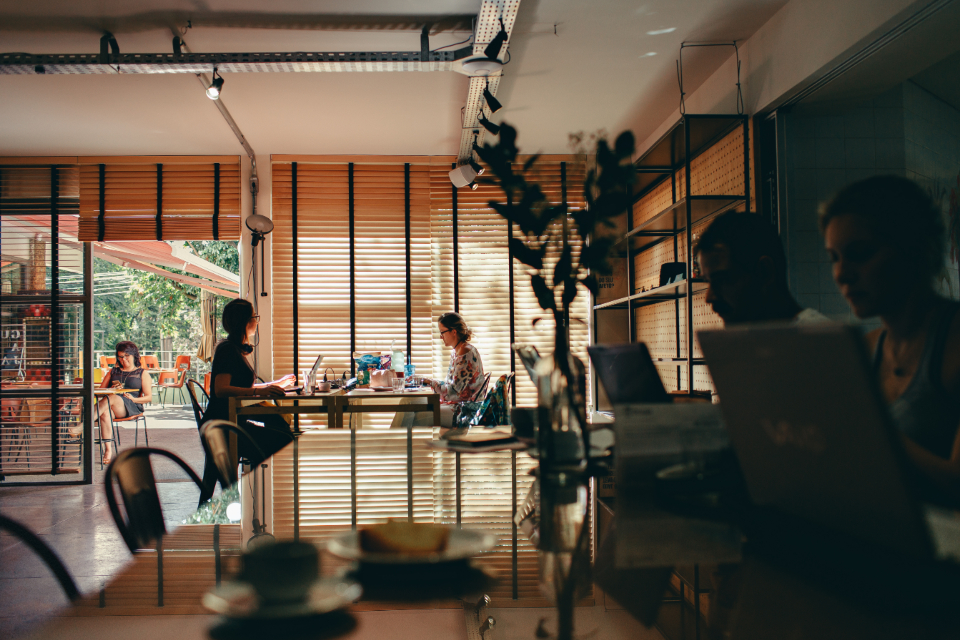
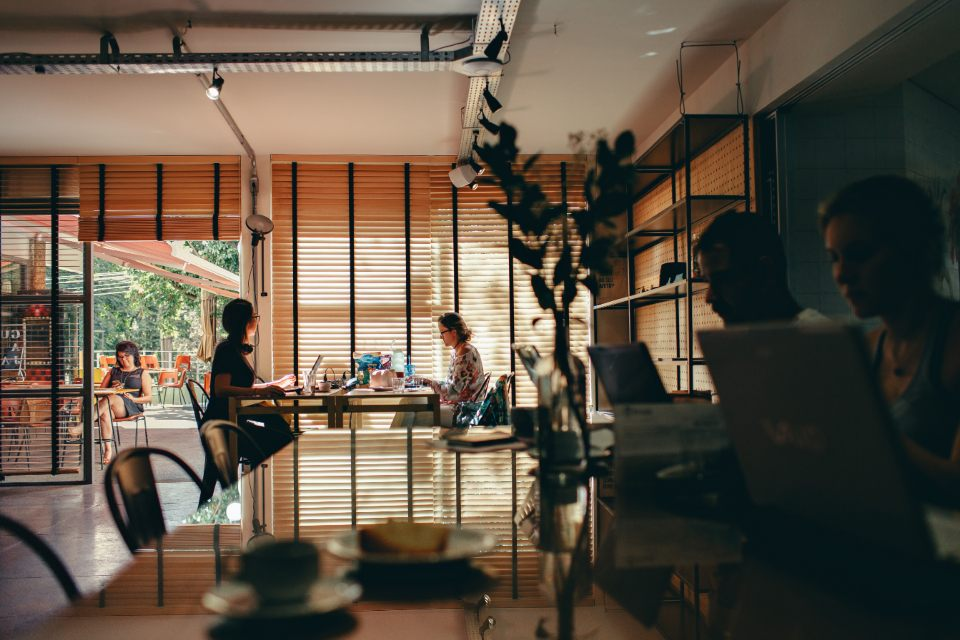
Mejoras de SEO que no dependen del dominio
Primera tanda de optimización tras publicar en Hostinger. Google usa la
velocidad de carga como factor de posicionamiento, y el hero es el
elemento que marca esa medida.

- Fotos recomprimidas: de 1,7 MB a 0,46 MB en total. El hero pasa de
  675 KB a 105 KB sin pérdida visible bajo el velo oscuro.
- Retiradas GSAP y ScrollTrigger (113 KB de JavaScript). Solo animaban
  los cuatro contadores, que ahora usan requestAnimationFrame.
- Meta descripciones de ES, EN y FR acortadas a 155 caracteres o menos,
  para que Google no las corte en los resultados.
- Versión de main.js a 20260913.

diff --git a/main.js b/main.js
@@ -174,15 +174,15 @@
       var target = parseFloat(el.dataset.countTo);
       var decimals = (el.dataset.countTo.split(".")[1] || "").length;
       var trigger = function () {
-        if (window.gsap) {
-          var obj = { v: 0 };
-          gsap.to(obj, {
-            v: target, duration: 1.5, ease: "power2.out",
-            onUpdate: function () { el.textContent = obj.v.toFixed(decimals); }
-          });
-        } else {
-          el.textContent = target.toFixed(decimals);
+        var start = null, duration = 1500;
+        function frame(now) {
+          if (start === null) start = now;
+          var p = Math.min(1, (now - start) / duration);
+          var eased = 1 - (1 - p) * (1 - p);
+          el.textContent = (target * eased).toFixed(decimals);
+          if (p < 1) requestAnimationFrame(frame);
         }
+        requestAnimationFrame(frame);
       };
       var io = new IntersectionObserver(function (entries) {
         entries.forEach(function (entry) {
@@ -254,10 +254,6 @@
     safe(initCountUp, "initCountUp");
     safe(initContactForm, "initContactForm");
     safe(initFooterYear, "initFooterYear");
-
-    if (window.gsap && window.ScrollTrigger) {
-      try { gsap.registerPlugin(ScrollTrigger); } catch (e) {}
-    }
 
     document.documentElement.classList.add("is-ready");
   }

diff --git a/fr/index.html b/fr/index.html
@@ -4,7 +4,7 @@
   <meta charset="utf-8">
   <meta name="viewport" content="width=device-width, initial-scale=1">
   <title>BENAMAR — Agence de marketing à Barcelone</title>
-  <meta name="description" content="BENAMAR est une agence de marketing à Barcelone : sites web corporatifs, landing pages, gestion des réseaux sociaux et référencement Google pour les entreprises qui abordent leur croissance avec sérieux.">
+  <meta name="description" content="Agence de marketing à Barcelone. Sites web, landing pages, réseaux sociaux et référencement Google pour les entreprises qui visent une croissance durable.">
   <link rel="canonical" href="https://1benamar.github.io/benamarcorporation/fr/">
   <link rel="alternate" hreflang="es" href="https://1benamar.github.io/benamarcorporation/">
   <link rel="alternate" hreflang="en" href="https://1benamar.github.io/benamarcorporation/en/">
@@ -323,9 +323,7 @@
     </div>
   </footer>
 
-  <script defer src="../lib/gsap.min.js"></script>
-  <script defer src="../lib/ScrollTrigger.min.js"></script>
   <script defer src="../lib/manifest.js"></script>
-  <script defer src="../main.js?v=20260912b"></script>
+  <script defer src="../main.js?v=20260913"></script>
 </body>
 </html>

diff --git a/index.html b/index.html
@@ -4,7 +4,7 @@
   <meta charset="utf-8">
   <meta name="viewport" content="width=device-width, initial-scale=1">
   <title>BENAMAR — Agencia de marketing en Barcelona</title>
-  <meta name="description" content="BENAMAR es una agencia de marketing en Barcelona: web corporativa, landing pages, gestión de redes sociales y posicionamiento en Google para empresas que buscan crecer con criterio.">
+  <meta name="description" content="Agencia de marketing en Barcelona. Web corporativa, landing pages, redes sociales y posicionamiento en Google para empresas que buscan crecer con criterio.">
   <link rel="canonical" href="https://1benamar.github.io/benamarcorporation/">
   <link rel="alternate" hreflang="es" href="https://1benamar.github.io/benamarcorporation/">
   <link rel="alternate" hreflang="en" href="https://1benamar.github.io/benamarcorporation/en/">
@@ -323,9 +323,7 @@
     </div>
   </footer>
 
-  <script defer src="lib/gsap.min.js"></script>
-  <script defer src="lib/ScrollTrigger.min.js"></script>
   <script defer src="lib/manifest.js"></script>
-  <script defer src="main.js?v=20260912b"></script>
+  <script defer src="main.js?v=20260913"></script>
 </body>
 </html>

diff --git a/en/index.html b/en/index.html
@@ -4,7 +4,7 @@
   <meta charset="utf-8">
   <meta name="viewport" content="width=device-width, initial-scale=1">
   <title>BENAMAR — Marketing Agency in Barcelona</title>
-  <meta name="description" content="BENAMAR is a marketing agency in Barcelona: corporate websites, landing pages, social media management and Google positioning for businesses that are serious about growth.">
+  <meta name="description" content="Marketing agency in Barcelona. Corporate websites, landing pages, social media management and SEO for businesses that are serious about growth.">
   <link rel="canonical" href="https://1benamar.github.io/benamarcorporation/en/">
   <link rel="alternate" hreflang="es" href="https://1benamar.github.io/benamarcorporation/">
   <link rel="alternate" hreflang="en" href="https://1benamar.github.io/benamarcorporation/en/">
@@ -323,9 +323,7 @@
     </div>
   </footer>
 
-  <script defer src="../lib/gsap.min.js"></script>
-  <script defer src="../lib/ScrollTrigger.min.js"></script>
   <script defer src="../lib/manifest.js"></script>
-  <script defer src="../main.js?v=20260912b"></script>
+  <script defer src="../main.js?v=20260913"></script>
 </body>
 </html>

diff --git a/en/creditos.html b/en/creditos.html
@@ -75,6 +75,6 @@
   </footer>
 
   <script defer src="../lib/credits-render.js"></script>
-  <script defer src="../main.js?v=20260912b"></script>
+  <script defer src="../main.js?v=20260913"></script>
 </body>
 </html>

diff --git a/fr/creditos.html b/fr/creditos.html
@@ -75,6 +75,6 @@
   </footer>
 
   <script defer src="../lib/credits-render.js"></script>
-  <script defer src="../main.js?v=20260912b"></script>
+  <script defer src="../main.js?v=20260913"></script>
 </body>
 </html>

diff --git a/creditos.html b/creditos.html
@@ -75,6 +75,6 @@
   </footer>
 
   <script defer src="lib/credits-render.js"></script>
-  <script defer src="main.js?v=20260912b"></script>
+  <script defer src="main.js?v=20260913"></script>
 </body>
 </html>

diff --git a/en/aviso-legal.html b/en/aviso-legal.html
@@ -95,6 +95,6 @@
     </div>
   </footer>
 
-  <script defer src="../main.js?v=20260912b"></script>
+  <script defer src="../main.js?v=20260913"></script>
 </body>
 </html>

diff --git a/en/privacidad.html b/en/privacidad.html
@@ -96,6 +96,6 @@
     </div>
   </footer>
 
-  <script defer src="../main.js?v=20260912b"></script>
+  <script defer src="../main.js?v=20260913"></script>
 </body>
 </html>

diff --git a/fr/aviso-legal.html b/fr/aviso-legal.html
@@ -95,6 +95,6 @@
     </div>
   </footer>
 
-  <script defer src="../main.js?v=20260912b"></script>
+  <script defer src="../main.js?v=20260913"></script>
 </body>
 </html>

diff --git a/fr/privacidad.html b/fr/privacidad.html
@@ -96,6 +96,6 @@
     </div>
   </footer>
 
-  <script defer src="../main.js?v=20260912b"></script>
+  <script defer src="../main.js?v=20260913"></script>
 </body>
 </html>

diff --git a/aviso-legal.html b/aviso-legal.html
@@ -95,6 +95,6 @@
     </div>
   </footer>
 
-  <script defer src="main.js?v=20260912b"></script>
+  <script defer src="main.js?v=20260913"></script>
 </body>
 </html>
